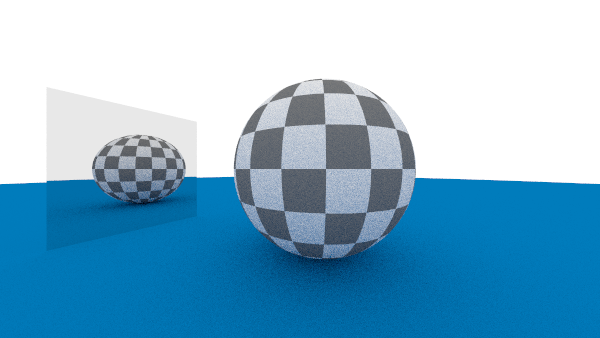
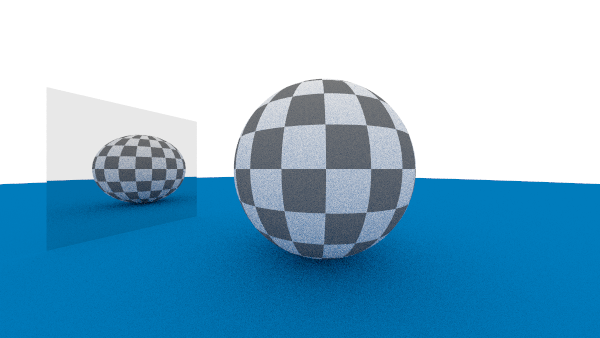
use mkStdGen instead of newStdGen

diff --git a/README.md b/README.md
@@ -35,7 +35,7 @@ module Main where
 
 import Graphics.Ray
 import Linear (V3(V3))
-import System.Random (newStdGen)
+import System.Random (mkStdGen)
 import Data.Functor.Identity (Identity)
 
 world :: Geometry Identity Material
@@ -55,8 +55,8 @@ settings = defaultCameraSettings
   }
 
 main :: IO ()
-main = do
-  seed <- newStdGen
+main = 
+  let seed = mkStdGen 100 in
   writeImage "example_image.png" (raytrace settings world seed)
 ```
 
